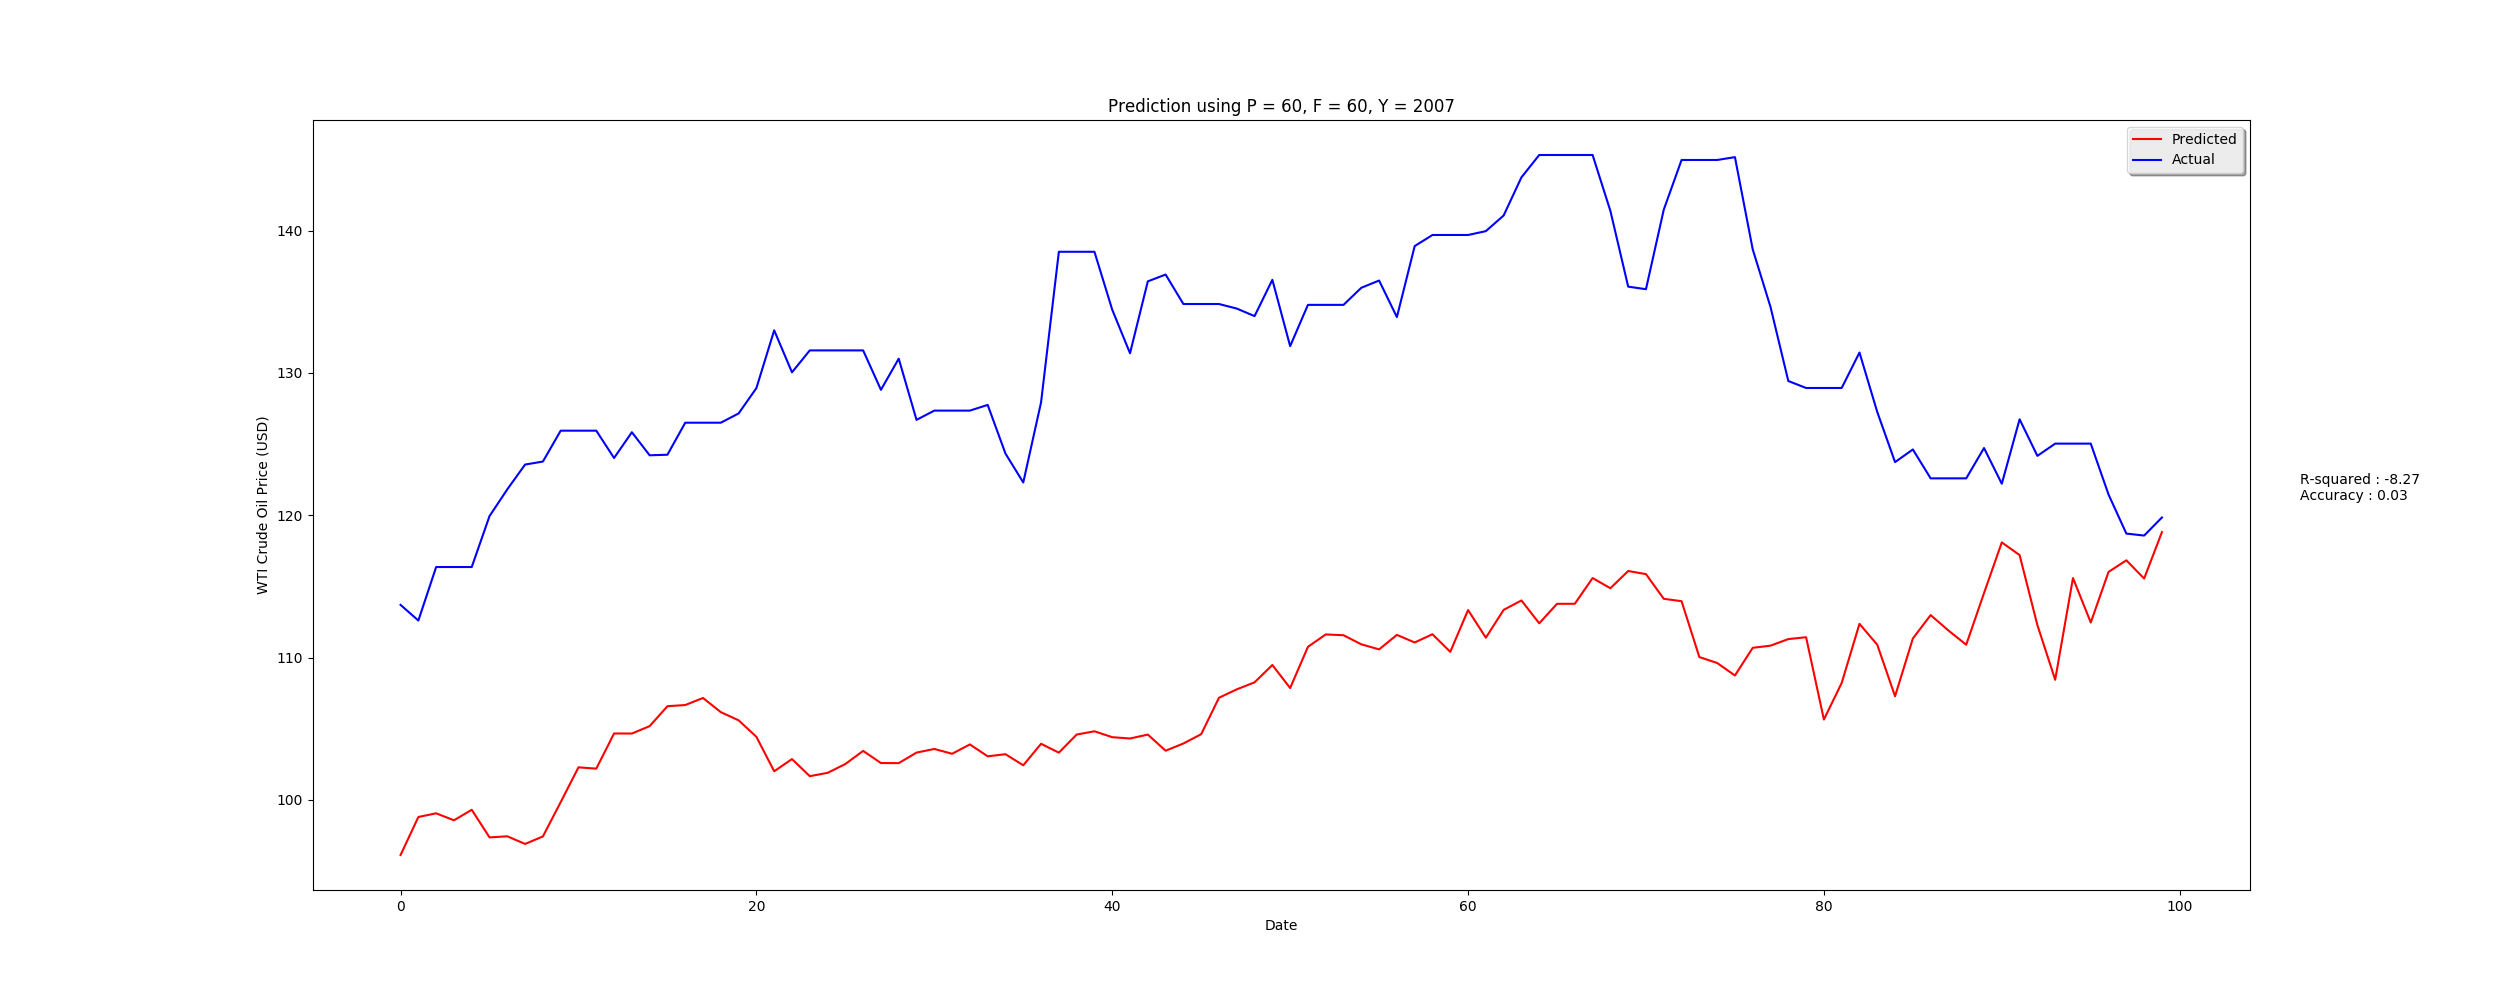
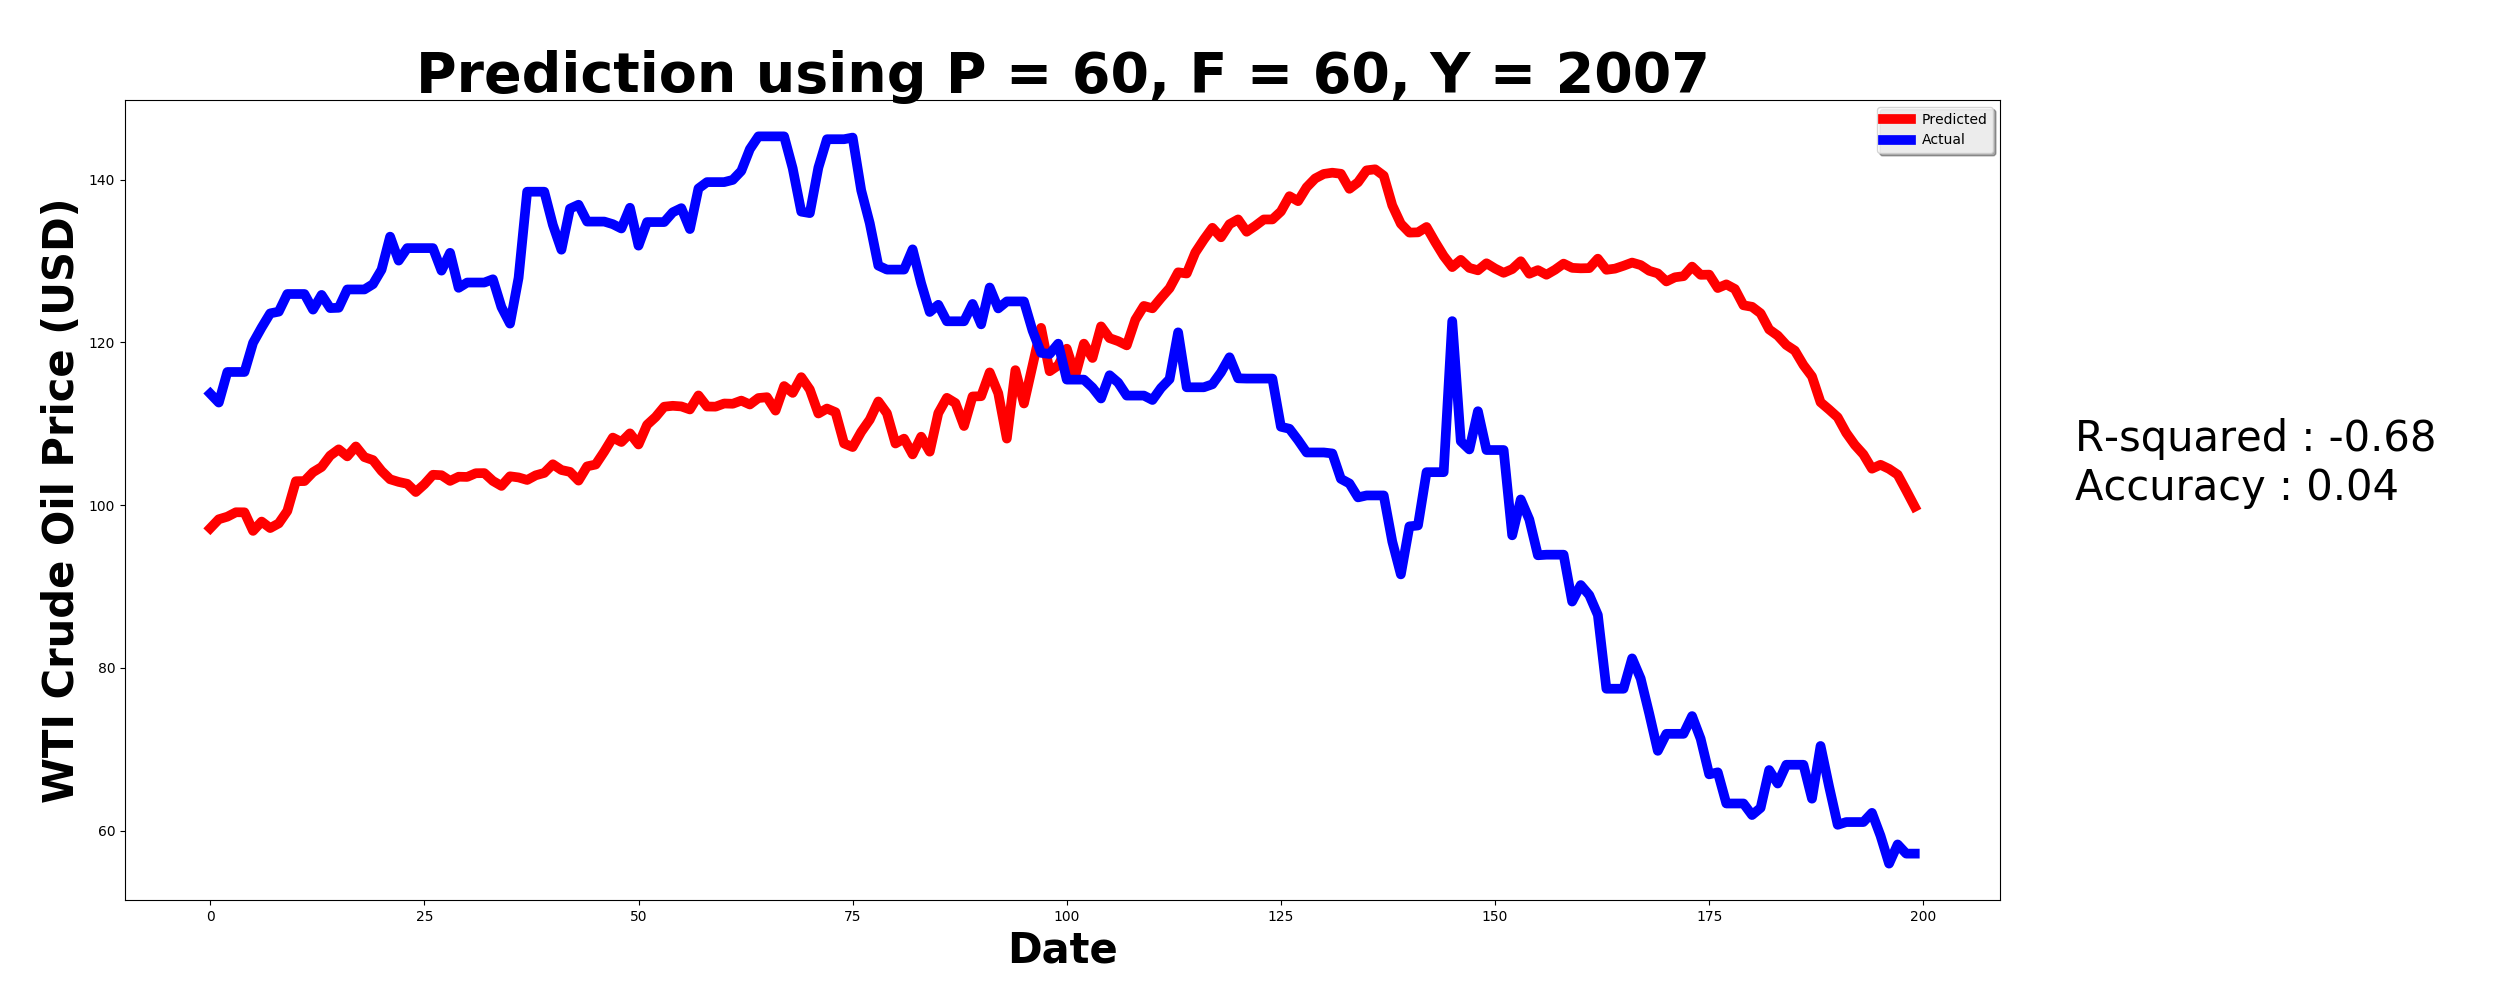
Graph generation - part 1 - 2007 complete

diff --git a/pythonRandomForest/call_ml.py b/pythonRandomForest/call_ml.py
@@ -8,7 +8,7 @@ from common import date_time_to_str
 from common import get_date_range
 
 ######### DEFINE THE SOLUTION SPACE ############
-MIN_YEAR = 2008
+MIN_YEAR = 2007
 MAX_YEAR = 2017
 ###############################################
 
@@ -27,8 +27,8 @@ def plot_params(params, predicted, actual, r2, acc):
     # pl.show()
 
 def testParams():
-    pValues = [14]
-    fValues = [1]
+    pValues = [60]        # [5, 7, 14, 30, 60]
+    fValues = [90]        # [1, 7, 14, 30, 60, 90]
     numTestPoints = 200
     trainingDays = 365
     max_day = datetime.date(year = MAX_YEAR, month = 12, day = 31)

diff --git a/pythonRandomForest/infra_retrain.py b/pythonRandomForest/infra_retrain.py
@@ -97,6 +97,7 @@ def predict_oil_prices(start_date, future_days, past_days, end_date, test_date):
 
     # STEP # - Trainig and testing
     rf = RandomForestRegressor(n_estimators=100)
+    #rf = GradientBoostingRegressor()
     rf.fit(train_x, train_y)
     predicted = rf.predict(test_x)
 
